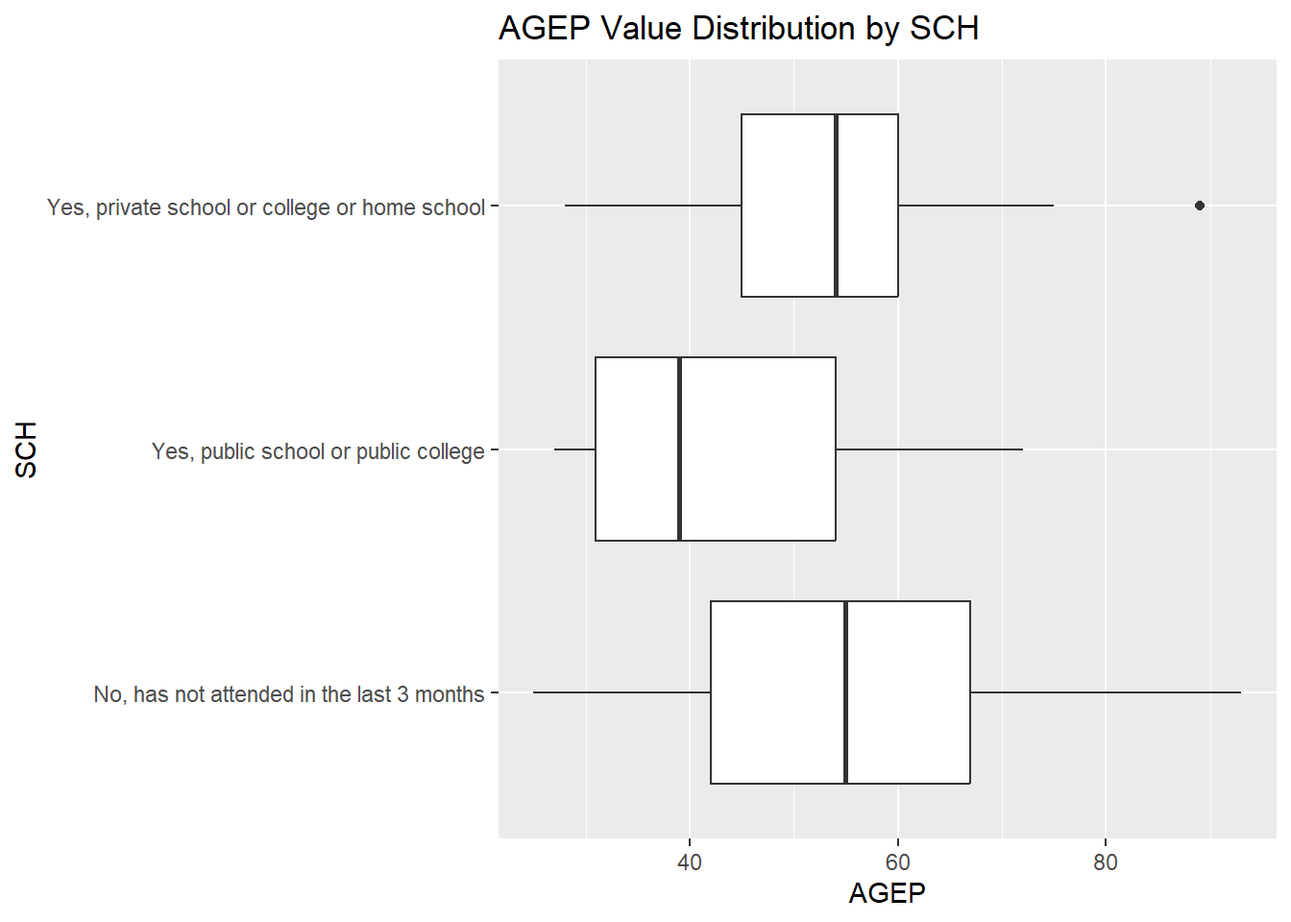
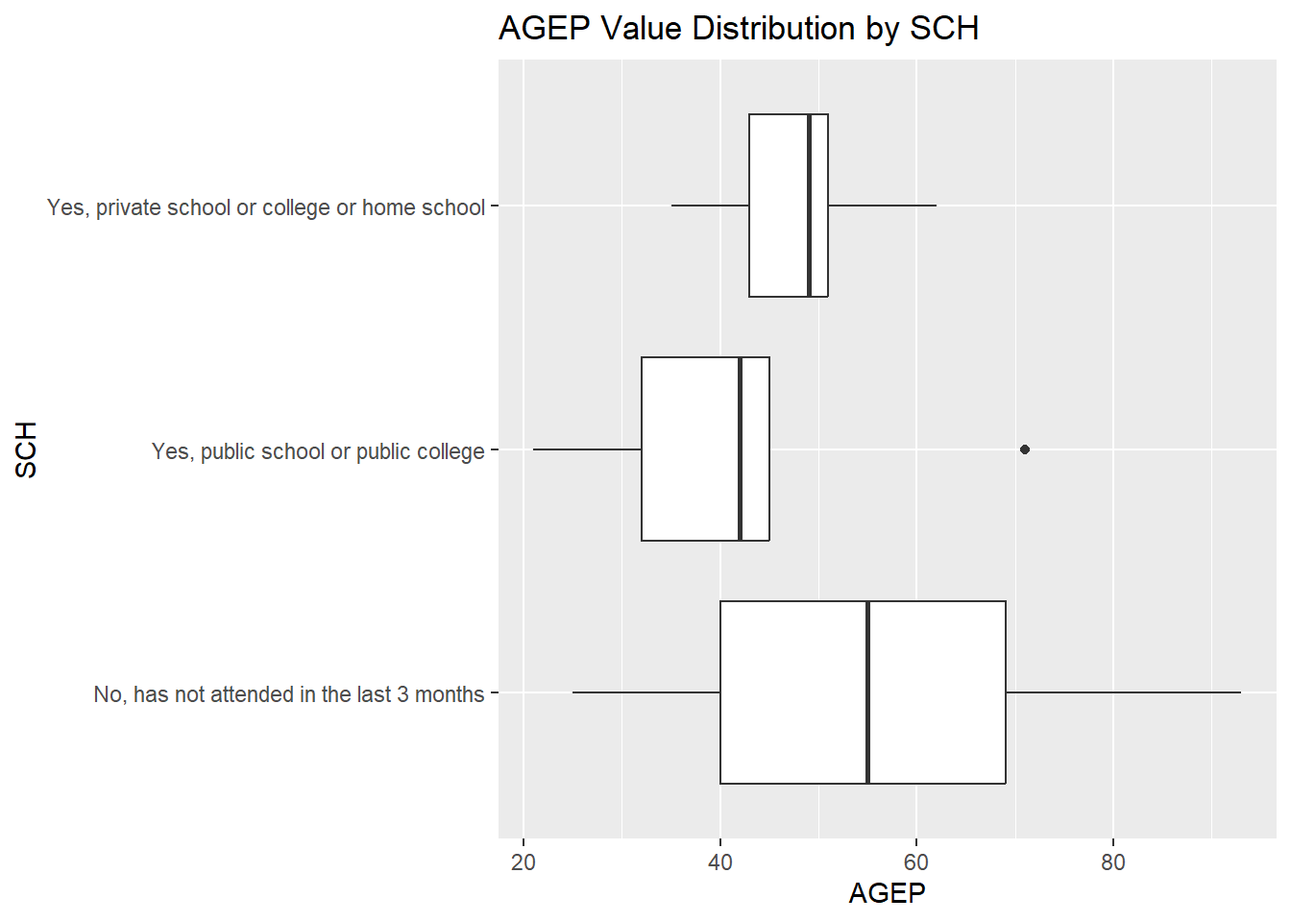
Final changes

diff --git a/docs/Group10_Project01_ST558_Site.html b/docs/Group10_Project01_ST558_Site.html
@@ -1172,88 +1172,90 @@ pre > code.sourceCode > span > a:first-child::before { text-decoration: underlin
 <span id="cb8-572"><a href="#cb8-572" aria-hidden="true" tabindex="-1"></a>                    <span class="st">"231"</span>)</span></code><button title="Copy to Clipboard" class="code-copy-button"><i class="bi"></i></button></pre></div>
 </div>
 </section>
-<section id="creating-a-list-of-jwap-jwap-map" class="level2">
-<h2 class="anchored" data-anchor-id="creating-a-list-of-jwap-jwap-map">Creating a list of JWAP, JWAP map</h2>
+<section id="get-mid-time-for-the-jwap-jwap-time-range" class="level2">
+<h2 class="anchored" data-anchor-id="get-mid-time-for-the-jwap-jwap-time-range">Get mid time for the JWAP, JWAP time range</h2>
 <div class="cell">
-<div class="sourceCode cell-code" id="cb9"><pre class="sourceCode r code-with-copy"><code class="sourceCode r"><span id="cb9-1"><a href="#cb9-1" aria-hidden="true" tabindex="-1"></a><span class="co">#time_lst &lt;- list(jwap = jwap_map, jwdp = jwdp_map)</span></span>
-<span id="cb9-2"><a href="#cb9-2" aria-hidden="true" tabindex="-1"></a>jwap_map <span class="ot">&lt;-</span> <span class="fu">sapply</span>(jwap_map, mid_time)</span>
-<span id="cb9-3"><a href="#cb9-3" aria-hidden="true" tabindex="-1"></a>jwdp_map <span class="ot">&lt;-</span> <span class="fu">sapply</span>(jwdp_map, mid_time)</span></code><button title="Copy to Clipboard" class="code-copy-button"><i class="bi"></i></button></pre></div>
+<div class="sourceCode cell-code" id="cb9"><pre class="sourceCode r code-with-copy"><code class="sourceCode r"><span id="cb9-1"><a href="#cb9-1" aria-hidden="true" tabindex="-1"></a>jwap_map <span class="ot">&lt;-</span> <span class="fu">sapply</span>(jwap_map, mid_time)</span>
+<span id="cb9-2"><a href="#cb9-2" aria-hidden="true" tabindex="-1"></a>jwdp_map <span class="ot">&lt;-</span> <span class="fu">sapply</span>(jwdp_map, mid_time)</span></code><button title="Copy to Clipboard" class="code-copy-button"><i class="bi"></i></button></pre></div>
 </div>
 </section>
 </section>
 <section id="function-to-query-pums-api" class="level1">
 <h1>Function to query PUMS API</h1>
 <div class="cell">
-<div class="sourceCode cell-code" id="cb10"><pre class="sourceCode r code-with-copy"><code class="sourceCode r"><span id="cb10-1"><a href="#cb10-1" aria-hidden="true" tabindex="-1"></a><span class="co">#num_vars: Numerical variable to be return </span></span>
-<span id="cb10-2"><a href="#cb10-2" aria-hidden="true" tabindex="-1"></a><span class="co"># cat_vars: categorical variable to be return</span></span>
-<span id="cb10-3"><a href="#cb10-3" aria-hidden="true" tabindex="-1"></a>get_data <span class="ot">&lt;-</span> <span class="cf">function</span>(<span class="at">year=</span><span class="dv">2022</span>, <span class="at">num_vars=</span> <span class="fu">c</span>(<span class="st">"PWGTP"</span>, <span class="st">"AGEP"</span>),</span>
-<span id="cb10-4"><a href="#cb10-4" aria-hidden="true" tabindex="-1"></a>                     <span class="at">cat_vars =</span> <span class="fu">c</span>(<span class="st">"SEX"</span>), <span class="at">geo =</span> <span class="st">"All"</span>, </span>
-<span id="cb10-5"><a href="#cb10-5" aria-hidden="true" tabindex="-1"></a>                     <span class="at">filter =</span> <span class="fu">list</span>(<span class="at">num_filter=</span><span class="st">""</span>, <span class="at">cat_filter=</span><span class="st">""</span>, <span class="at">geo_filter=</span><span class="st">"*"</span>)){</span>
-<span id="cb10-6"><a href="#cb10-6" aria-hidden="true" tabindex="-1"></a>  <span class="cf">if</span> (year <span class="sc">&lt;</span> <span class="dv">2010</span> <span class="sc">|</span> year <span class="sc">&gt;</span> <span class="dv">2022</span>) {</span>
-<span id="cb10-7"><a href="#cb10-7" aria-hidden="true" tabindex="-1"></a>    <span class="fu">stop</span> (<span class="st">"year needs to be 2010-2022"</span>)</span>
-<span id="cb10-8"><a href="#cb10-8" aria-hidden="true" tabindex="-1"></a>  }</span>
-<span id="cb10-9"><a href="#cb10-9" aria-hidden="true" tabindex="-1"></a>  <span class="cf">if</span>(<span class="sc">!</span><span class="fu">is.vector</span>(num_vars) <span class="sc">|</span> <span class="sc">!</span><span class="fu">is.vector</span>(cat_vars)) {</span>
-<span id="cb10-10"><a href="#cb10-10" aria-hidden="true" tabindex="-1"></a>    <span class="fu">stop</span>(<span class="st">"num_vars and cat_vars both need to be vectors"</span>)</span>
+<div class="sourceCode cell-code" id="cb10"><pre class="sourceCode r code-with-copy"><code class="sourceCode r"><span id="cb10-1"><a href="#cb10-1" aria-hidden="true" tabindex="-1"></a><span class="co"># Get data for a year from the PUMS API based on the variables given</span></span>
+<span id="cb10-2"><a href="#cb10-2" aria-hidden="true" tabindex="-1"></a><span class="co"># num_vars: Numerical variable to be return </span></span>
+<span id="cb10-3"><a href="#cb10-3" aria-hidden="true" tabindex="-1"></a><span class="co"># cat_vars: categorical variable to be return</span></span>
+<span id="cb10-4"><a href="#cb10-4" aria-hidden="true" tabindex="-1"></a><span class="co"># geo: geography</span></span>
+<span id="cb10-5"><a href="#cb10-5" aria-hidden="true" tabindex="-1"></a><span class="co"># filter: list of numeric var filter, categorical var filter, and geography filter</span></span>
+<span id="cb10-6"><a href="#cb10-6" aria-hidden="true" tabindex="-1"></a>get_data <span class="ot">&lt;-</span> <span class="cf">function</span>(<span class="at">year=</span><span class="dv">2022</span>, <span class="at">num_vars=</span> <span class="fu">c</span>(<span class="st">"PWGTP"</span>, <span class="st">"AGEP"</span>),</span>
+<span id="cb10-7"><a href="#cb10-7" aria-hidden="true" tabindex="-1"></a>                     <span class="at">cat_vars =</span> <span class="fu">c</span>(<span class="st">"SEX"</span>), <span class="at">geo =</span> <span class="st">"All"</span>, </span>
+<span id="cb10-8"><a href="#cb10-8" aria-hidden="true" tabindex="-1"></a>                     <span class="at">filter =</span> <span class="fu">list</span>(<span class="at">num_filter=</span><span class="st">""</span>, <span class="at">cat_filter=</span><span class="st">""</span>, <span class="at">geo_filter=</span><span class="st">"*"</span>)){</span>
+<span id="cb10-9"><a href="#cb10-9" aria-hidden="true" tabindex="-1"></a>  <span class="cf">if</span> (year <span class="sc">&lt;</span> <span class="dv">2010</span> <span class="sc">|</span> year <span class="sc">&gt;</span> <span class="dv">2022</span>) {</span>
+<span id="cb10-10"><a href="#cb10-10" aria-hidden="true" tabindex="-1"></a>    <span class="fu">stop</span> (<span class="st">"year needs to be 2010-2022"</span>)</span>
 <span id="cb10-11"><a href="#cb10-11" aria-hidden="true" tabindex="-1"></a>  }</span>
-<span id="cb10-12"><a href="#cb10-12" aria-hidden="true" tabindex="-1"></a>  allowed_num <span class="ot">&lt;-</span> <span class="fu">c</span>(<span class="st">"PWGTP"</span>, <span class="st">"AGEP"</span>, <span class="st">"GASP"</span>, <span class="st">"GRPIP"</span>,<span class="st">"JWAP"</span>, <span class="st">"JWDP"</span>, <span class="st">"JWMNP"</span>)</span>
-<span id="cb10-13"><a href="#cb10-13" aria-hidden="true" tabindex="-1"></a>  allowed_cat <span class="ot">&lt;-</span> <span class="fu">c</span>(<span class="st">"FER"</span>, <span class="st">"HHL"</span>, <span class="st">"HISPEED"</span>, <span class="st">"JWTRNS"</span>, <span class="st">"SCH"</span>, <span class="st">"SCHL"</span>, <span class="st">"SEX"</span>)</span>
-<span id="cb10-14"><a href="#cb10-14" aria-hidden="true" tabindex="-1"></a></span>
-<span id="cb10-15"><a href="#cb10-15" aria-hidden="true" tabindex="-1"></a>  diff <span class="ot">&lt;-</span> <span class="fu">setdiff</span>(num_vars, allowed_num)</span>
-<span id="cb10-16"><a href="#cb10-16" aria-hidden="true" tabindex="-1"></a>  <span class="cf">if</span>(<span class="fu">length</span>(diff) <span class="sc">&gt;</span> <span class="dv">0</span>){</span>
-<span id="cb10-17"><a href="#cb10-17" aria-hidden="true" tabindex="-1"></a>    <span class="fu">stop</span> (<span class="st">"unknown variable(s) given in num_vars: "</span>, diff)</span>
-<span id="cb10-18"><a href="#cb10-18" aria-hidden="true" tabindex="-1"></a>  }</span>
-<span id="cb10-19"><a href="#cb10-19" aria-hidden="true" tabindex="-1"></a>  diff <span class="ot">&lt;-</span> <span class="fu">setdiff</span>(cat_vars, allowed_cat)</span>
-<span id="cb10-20"><a href="#cb10-20" aria-hidden="true" tabindex="-1"></a>  <span class="cf">if</span> (<span class="fu">length</span>(diff) <span class="sc">&gt;</span> <span class="dv">0</span>){</span>
-<span id="cb10-21"><a href="#cb10-21" aria-hidden="true" tabindex="-1"></a>    <span class="fu">stop</span> (<span class="st">"unknown variable(s) given in cat_vars: "</span>, diff) </span>
-<span id="cb10-22"><a href="#cb10-22" aria-hidden="true" tabindex="-1"></a>  }</span>
-<span id="cb10-23"><a href="#cb10-23" aria-hidden="true" tabindex="-1"></a>  <span class="cf">if</span> (<span class="sc">!</span>(geo <span class="sc">%in%</span> <span class="fu">c</span>(<span class="st">"All"</span>, <span class="st">"Region"</span>, <span class="st">"Division"</span>, <span class="st">"State"</span>))){</span>
-<span id="cb10-24"><a href="#cb10-24" aria-hidden="true" tabindex="-1"></a>    <span class="fu">stop</span> (<span class="st">"unknown geo value given: "</span>, geo)</span>
+<span id="cb10-12"><a href="#cb10-12" aria-hidden="true" tabindex="-1"></a>  <span class="cf">if</span>(<span class="sc">!</span><span class="fu">is.vector</span>(num_vars) <span class="sc">|</span> <span class="sc">!</span><span class="fu">is.vector</span>(cat_vars)) {</span>
+<span id="cb10-13"><a href="#cb10-13" aria-hidden="true" tabindex="-1"></a>    <span class="fu">stop</span>(<span class="st">"num_vars and cat_vars both need to be vectors"</span>)</span>
+<span id="cb10-14"><a href="#cb10-14" aria-hidden="true" tabindex="-1"></a>  }</span>
+<span id="cb10-15"><a href="#cb10-15" aria-hidden="true" tabindex="-1"></a>  allowed_num <span class="ot">&lt;-</span> <span class="fu">c</span>(<span class="st">"PWGTP"</span>, <span class="st">"AGEP"</span>, <span class="st">"GASP"</span>, <span class="st">"GRPIP"</span>,<span class="st">"JWAP"</span>, <span class="st">"JWDP"</span>, <span class="st">"JWMNP"</span>)</span>
+<span id="cb10-16"><a href="#cb10-16" aria-hidden="true" tabindex="-1"></a>  allowed_cat <span class="ot">&lt;-</span> <span class="fu">c</span>(<span class="st">"FER"</span>, <span class="st">"HHL"</span>, <span class="st">"HISPEED"</span>, <span class="st">"JWTRNS"</span>, <span class="st">"SCH"</span>, <span class="st">"SCHL"</span>, <span class="st">"SEX"</span>)</span>
+<span id="cb10-17"><a href="#cb10-17" aria-hidden="true" tabindex="-1"></a></span>
+<span id="cb10-18"><a href="#cb10-18" aria-hidden="true" tabindex="-1"></a>  diff <span class="ot">&lt;-</span> <span class="fu">setdiff</span>(num_vars, allowed_num)</span>
+<span id="cb10-19"><a href="#cb10-19" aria-hidden="true" tabindex="-1"></a>  <span class="cf">if</span>(<span class="fu">length</span>(diff) <span class="sc">&gt;</span> <span class="dv">0</span>){</span>
+<span id="cb10-20"><a href="#cb10-20" aria-hidden="true" tabindex="-1"></a>    <span class="fu">stop</span> (<span class="st">"unknown variable(s) given in num_vars: "</span>, diff)</span>
+<span id="cb10-21"><a href="#cb10-21" aria-hidden="true" tabindex="-1"></a>  }</span>
+<span id="cb10-22"><a href="#cb10-22" aria-hidden="true" tabindex="-1"></a>  diff <span class="ot">&lt;-</span> <span class="fu">setdiff</span>(cat_vars, allowed_cat)</span>
+<span id="cb10-23"><a href="#cb10-23" aria-hidden="true" tabindex="-1"></a>  <span class="cf">if</span> (<span class="fu">length</span>(diff) <span class="sc">&gt;</span> <span class="dv">0</span>){</span>
+<span id="cb10-24"><a href="#cb10-24" aria-hidden="true" tabindex="-1"></a>    <span class="fu">stop</span> (<span class="st">"unknown variable(s) given in cat_vars: "</span>, diff) </span>
 <span id="cb10-25"><a href="#cb10-25" aria-hidden="true" tabindex="-1"></a>  }</span>
-<span id="cb10-26"><a href="#cb10-26" aria-hidden="true" tabindex="-1"></a>  <span class="co"># Add PWGTP if not present in num_vars</span></span>
-<span id="cb10-27"><a href="#cb10-27" aria-hidden="true" tabindex="-1"></a>  <span class="cf">if</span>(<span class="sc">!</span>( <span class="st">"PWGTP"</span> <span class="sc">%in%</span> num_vars)) {</span>
-<span id="cb10-28"><a href="#cb10-28" aria-hidden="true" tabindex="-1"></a>    num_vars <span class="ot">&lt;-</span> <span class="fu">c</span>(<span class="st">"PWGPT"</span>, num_vars)</span>
-<span id="cb10-29"><a href="#cb10-29" aria-hidden="true" tabindex="-1"></a>  }</span>
-<span id="cb10-30"><a href="#cb10-30" aria-hidden="true" tabindex="-1"></a>  get_str <span class="ot">&lt;-</span> <span class="st">""</span></span>
-<span id="cb10-31"><a href="#cb10-31" aria-hidden="true" tabindex="-1"></a>  <span class="cf">if</span> (geo <span class="sc">!=</span> <span class="st">"All"</span>){</span>
-<span id="cb10-32"><a href="#cb10-32" aria-hidden="true" tabindex="-1"></a>    geo_str <span class="ot">&lt;-</span> <span class="fu">paste0</span>(<span class="st">"&amp;for="</span>, geo, <span class="st">":"</span>, filter<span class="sc">$</span>geo_filter)</span>
-<span id="cb10-33"><a href="#cb10-33" aria-hidden="true" tabindex="-1"></a>  }</span>
-<span id="cb10-34"><a href="#cb10-34" aria-hidden="true" tabindex="-1"></a>  get_str <span class="ot">&lt;-</span> <span class="fu">paste0</span>(<span class="st">"pums?get="</span>,</span>
-<span id="cb10-35"><a href="#cb10-35" aria-hidden="true" tabindex="-1"></a>                   <span class="fu">paste</span>(num_vars, <span class="at">collapse =</span> <span class="st">","</span>),</span>
-<span id="cb10-36"><a href="#cb10-36" aria-hidden="true" tabindex="-1"></a>                   <span class="st">","</span>,</span>
-<span id="cb10-37"><a href="#cb10-37" aria-hidden="true" tabindex="-1"></a>                   <span class="fu">paste</span>(cat_vars, <span class="at">collapse =</span> <span class="st">","</span>),</span>
-<span id="cb10-38"><a href="#cb10-38" aria-hidden="true" tabindex="-1"></a>                   geo_str,</span>
-<span id="cb10-39"><a href="#cb10-39" aria-hidden="true" tabindex="-1"></a>                   <span class="fu">paste0</span>(<span class="st">"&amp;"</span>, filter<span class="sc">$</span>num_filter),</span>
-<span id="cb10-40"><a href="#cb10-40" aria-hidden="true" tabindex="-1"></a>                   <span class="fu">paste0</span>(<span class="st">"&amp;"</span>, filter<span class="sc">$</span>cat_filter)</span>
-<span id="cb10-41"><a href="#cb10-41" aria-hidden="true" tabindex="-1"></a>                   )</span>
-<span id="cb10-42"><a href="#cb10-42" aria-hidden="true" tabindex="-1"></a>  URL <span class="ot">&lt;-</span> <span class="fu">paste</span>(<span class="st">"https://api.census.gov/data"</span>, year,</span>
-<span id="cb10-43"><a href="#cb10-43" aria-hidden="true" tabindex="-1"></a>               <span class="st">"acs/acs1"</span>, get_str,</span>
-<span id="cb10-44"><a href="#cb10-44" aria-hidden="true" tabindex="-1"></a>               <span class="at">sep =</span> <span class="st">"/"</span>,</span>
-<span id="cb10-45"><a href="#cb10-45" aria-hidden="true" tabindex="-1"></a>               <span class="at">collapse=</span><span class="st">"/"</span>)</span>
-<span id="cb10-46"><a href="#cb10-46" aria-hidden="true" tabindex="-1"></a>  <span class="fu">print</span>(URL)</span>
-<span id="cb10-47"><a href="#cb10-47" aria-hidden="true" tabindex="-1"></a>  tbl <span class="ot">&lt;-</span> <span class="fu">get_url_data</span>(URL)</span>
-<span id="cb10-48"><a href="#cb10-48" aria-hidden="true" tabindex="-1"></a>  <span class="co">#https://api.census.gov/data/2022/acs/acs1/pums?get=SEX,PWGTP,MAR&amp;for=region:*&amp;SCHL=</span></span>
-<span id="cb10-49"><a href="#cb10-49" aria-hidden="true" tabindex="-1"></a>  <span class="co">#Adding factors for each categorical variables</span></span>
-<span id="cb10-50"><a href="#cb10-50" aria-hidden="true" tabindex="-1"></a>  <span class="cf">for</span>(ct <span class="cf">in</span> cat_vars) {</span>
-<span id="cb10-51"><a href="#cb10-51" aria-hidden="true" tabindex="-1"></a>    fac <span class="ot">&lt;-</span> <span class="cf">switch</span>(ct,</span>
-<span id="cb10-52"><a href="#cb10-52" aria-hidden="true" tabindex="-1"></a>           <span class="st">"SEX"</span> <span class="ot">=</span> sex_factor,</span>
-<span id="cb10-53"><a href="#cb10-53" aria-hidden="true" tabindex="-1"></a>           <span class="st">"FER"</span> <span class="ot">=</span> fer_factor,</span>
-<span id="cb10-54"><a href="#cb10-54" aria-hidden="true" tabindex="-1"></a>           <span class="st">"HHL"</span> <span class="ot">=</span> hhl_factor,</span>
-<span id="cb10-55"><a href="#cb10-55" aria-hidden="true" tabindex="-1"></a>           <span class="st">"HISPEED"</span><span class="ot">=</span> hispeed_factor,</span>
-<span id="cb10-56"><a href="#cb10-56" aria-hidden="true" tabindex="-1"></a>           <span class="st">"JWTRNS"</span> <span class="ot">=</span> jwtrns_factor,</span>
-<span id="cb10-57"><a href="#cb10-57" aria-hidden="true" tabindex="-1"></a>           <span class="st">"SCH"</span> <span class="ot">=</span> sch_factor,</span>
-<span id="cb10-58"><a href="#cb10-58" aria-hidden="true" tabindex="-1"></a>           <span class="st">"SCHL"</span> <span class="ot">=</span> schl_factor)</span>
-<span id="cb10-59"><a href="#cb10-59" aria-hidden="true" tabindex="-1"></a>    <span class="co"># For using column names from a variable need to use !! and !!sym() for use inside factor</span></span>
-<span id="cb10-60"><a href="#cb10-60" aria-hidden="true" tabindex="-1"></a>    tbl <span class="ot">&lt;-</span> tbl <span class="sc">|&gt;</span></span>
-<span id="cb10-61"><a href="#cb10-61" aria-hidden="true" tabindex="-1"></a>      <span class="fu">mutate</span>(<span class="sc">!!</span><span class="at">ct :=</span> <span class="fu">factor</span>(<span class="sc">!!</span><span class="fu">sym</span>(ct), <span class="at">levels =</span> fac<span class="sc">$</span>levels, <span class="at">labels =</span> fac<span class="sc">$</span>labels))</span>
-<span id="cb10-62"><a href="#cb10-62" aria-hidden="true" tabindex="-1"></a>  }</span>
-<span id="cb10-63"><a href="#cb10-63" aria-hidden="true" tabindex="-1"></a>  <span class="co">#Converting numerical variables' values to numbers and converting time rage vars to mid time</span></span>
-<span id="cb10-64"><a href="#cb10-64" aria-hidden="true" tabindex="-1"></a>  tbl <span class="ot">&lt;-</span> tbl <span class="sc">|&gt;</span></span>
-<span id="cb10-65"><a href="#cb10-65" aria-hidden="true" tabindex="-1"></a>        <span class="fu">mutate</span>(<span class="fu">across</span>(<span class="fu">setdiff</span>(num_vars, <span class="fu">c</span>(<span class="st">"JWAP"</span>, <span class="st">"JWDP"</span>)), as.numeric),</span>
-<span id="cb10-66"><a href="#cb10-66" aria-hidden="true" tabindex="-1"></a>               <span class="fu">across</span>(<span class="fu">starts_with</span>(<span class="st">"JW"</span>) <span class="sc">&amp;</span> <span class="fu">ends_with</span>(<span class="st">"P"</span>), </span>
-<span id="cb10-67"><a href="#cb10-67" aria-hidden="true" tabindex="-1"></a>                      <span class="sc">~</span><span class="fu">ifelse</span>(<span class="fu">cur_column</span>() <span class="sc">==</span> <span class="st">"JWAP"</span>, jwap_map[.], jwdp_map[.])</span>
-<span id="cb10-68"><a href="#cb10-68" aria-hidden="true" tabindex="-1"></a>                      ))</span>
-<span id="cb10-69"><a href="#cb10-69" aria-hidden="true" tabindex="-1"></a>  <span class="fu">return</span>(tbl)</span>
-<span id="cb10-70"><a href="#cb10-70" aria-hidden="true" tabindex="-1"></a>}</span></code><button title="Copy to Clipboard" class="code-copy-button"><i class="bi"></i></button></pre></div>
+<span id="cb10-26"><a href="#cb10-26" aria-hidden="true" tabindex="-1"></a>  <span class="cf">if</span> (<span class="sc">!</span>(geo <span class="sc">%in%</span> <span class="fu">c</span>(<span class="st">"All"</span>, <span class="st">"Region"</span>, <span class="st">"Division"</span>, <span class="st">"State"</span>))){</span>
+<span id="cb10-27"><a href="#cb10-27" aria-hidden="true" tabindex="-1"></a>    <span class="fu">stop</span> (<span class="st">"unknown geo value given: "</span>, geo)</span>
+<span id="cb10-28"><a href="#cb10-28" aria-hidden="true" tabindex="-1"></a>  }</span>
+<span id="cb10-29"><a href="#cb10-29" aria-hidden="true" tabindex="-1"></a>  <span class="co"># Add PWGTP if not present in num_vars</span></span>
+<span id="cb10-30"><a href="#cb10-30" aria-hidden="true" tabindex="-1"></a>  <span class="cf">if</span>(<span class="sc">!</span>( <span class="st">"PWGTP"</span> <span class="sc">%in%</span> num_vars)) {</span>
+<span id="cb10-31"><a href="#cb10-31" aria-hidden="true" tabindex="-1"></a>    num_vars <span class="ot">&lt;-</span> <span class="fu">c</span>(<span class="st">"PWGPT"</span>, num_vars)</span>
+<span id="cb10-32"><a href="#cb10-32" aria-hidden="true" tabindex="-1"></a>  }</span>
+<span id="cb10-33"><a href="#cb10-33" aria-hidden="true" tabindex="-1"></a>  get_str <span class="ot">&lt;-</span> <span class="st">""</span></span>
+<span id="cb10-34"><a href="#cb10-34" aria-hidden="true" tabindex="-1"></a>  <span class="cf">if</span> (geo <span class="sc">!=</span> <span class="st">"All"</span>){</span>
+<span id="cb10-35"><a href="#cb10-35" aria-hidden="true" tabindex="-1"></a>    geo_str <span class="ot">&lt;-</span> <span class="fu">paste0</span>(<span class="st">"&amp;for="</span>, geo, <span class="st">":"</span>, filter<span class="sc">$</span>geo_filter)</span>
+<span id="cb10-36"><a href="#cb10-36" aria-hidden="true" tabindex="-1"></a>  }</span>
+<span id="cb10-37"><a href="#cb10-37" aria-hidden="true" tabindex="-1"></a>  get_str <span class="ot">&lt;-</span> <span class="fu">paste0</span>(<span class="st">"pums?get="</span>,</span>
+<span id="cb10-38"><a href="#cb10-38" aria-hidden="true" tabindex="-1"></a>                   <span class="fu">paste</span>(num_vars, <span class="at">collapse =</span> <span class="st">","</span>),</span>
+<span id="cb10-39"><a href="#cb10-39" aria-hidden="true" tabindex="-1"></a>                   <span class="st">","</span>,</span>
+<span id="cb10-40"><a href="#cb10-40" aria-hidden="true" tabindex="-1"></a>                   <span class="fu">paste</span>(cat_vars, <span class="at">collapse =</span> <span class="st">","</span>),</span>
+<span id="cb10-41"><a href="#cb10-41" aria-hidden="true" tabindex="-1"></a>                   geo_str,</span>
+<span id="cb10-42"><a href="#cb10-42" aria-hidden="true" tabindex="-1"></a>                   <span class="fu">paste0</span>(<span class="st">"&amp;"</span>, filter<span class="sc">$</span>num_filter),</span>
+<span id="cb10-43"><a href="#cb10-43" aria-hidden="true" tabindex="-1"></a>                   <span class="fu">paste0</span>(<span class="st">"&amp;"</span>, filter<span class="sc">$</span>cat_filter)</span>
+<span id="cb10-44"><a href="#cb10-44" aria-hidden="true" tabindex="-1"></a>                   )</span>
+<span id="cb10-45"><a href="#cb10-45" aria-hidden="true" tabindex="-1"></a>  URL <span class="ot">&lt;-</span> <span class="fu">paste</span>(<span class="st">"https://api.census.gov/data"</span>, year,</span>
+<span id="cb10-46"><a href="#cb10-46" aria-hidden="true" tabindex="-1"></a>               <span class="st">"acs/acs1"</span>, get_str,</span>
+<span id="cb10-47"><a href="#cb10-47" aria-hidden="true" tabindex="-1"></a>               <span class="at">sep =</span> <span class="st">"/"</span>,</span>
+<span id="cb10-48"><a href="#cb10-48" aria-hidden="true" tabindex="-1"></a>               <span class="at">collapse=</span><span class="st">"/"</span>)</span>
+<span id="cb10-49"><a href="#cb10-49" aria-hidden="true" tabindex="-1"></a>  <span class="fu">print</span>(URL)</span>
+<span id="cb10-50"><a href="#cb10-50" aria-hidden="true" tabindex="-1"></a>  tbl <span class="ot">&lt;-</span> <span class="fu">get_url_data</span>(URL)</span>
+<span id="cb10-51"><a href="#cb10-51" aria-hidden="true" tabindex="-1"></a>  <span class="co">#https://api.census.gov/data/2022/acs/acs1/pums?get=SEX,PWGTP,MAR&amp;for=region:*&amp;SCHL=</span></span>
+<span id="cb10-52"><a href="#cb10-52" aria-hidden="true" tabindex="-1"></a>  <span class="co">#Adding factors for each categorical variables</span></span>
+<span id="cb10-53"><a href="#cb10-53" aria-hidden="true" tabindex="-1"></a>  <span class="cf">for</span>(ct <span class="cf">in</span> cat_vars) {</span>
+<span id="cb10-54"><a href="#cb10-54" aria-hidden="true" tabindex="-1"></a>    fac <span class="ot">&lt;-</span> <span class="cf">switch</span>(ct,</span>
+<span id="cb10-55"><a href="#cb10-55" aria-hidden="true" tabindex="-1"></a>           <span class="st">"SEX"</span> <span class="ot">=</span> sex_factor,</span>
+<span id="cb10-56"><a href="#cb10-56" aria-hidden="true" tabindex="-1"></a>           <span class="st">"FER"</span> <span class="ot">=</span> fer_factor,</span>
+<span id="cb10-57"><a href="#cb10-57" aria-hidden="true" tabindex="-1"></a>           <span class="st">"HHL"</span> <span class="ot">=</span> hhl_factor,</span>
+<span id="cb10-58"><a href="#cb10-58" aria-hidden="true" tabindex="-1"></a>           <span class="st">"HISPEED"</span><span class="ot">=</span> hispeed_factor,</span>
+<span id="cb10-59"><a href="#cb10-59" aria-hidden="true" tabindex="-1"></a>           <span class="st">"JWTRNS"</span> <span class="ot">=</span> jwtrns_factor,</span>
+<span id="cb10-60"><a href="#cb10-60" aria-hidden="true" tabindex="-1"></a>           <span class="st">"SCH"</span> <span class="ot">=</span> sch_factor,</span>
+<span id="cb10-61"><a href="#cb10-61" aria-hidden="true" tabindex="-1"></a>           <span class="st">"SCHL"</span> <span class="ot">=</span> schl_factor)</span>
+<span id="cb10-62"><a href="#cb10-62" aria-hidden="true" tabindex="-1"></a>    <span class="co"># For using column names from a variable need to use !! and !!sym() for use inside factor</span></span>
+<span id="cb10-63"><a href="#cb10-63" aria-hidden="true" tabindex="-1"></a>    tbl <span class="ot">&lt;-</span> tbl <span class="sc">|&gt;</span></span>
+<span id="cb10-64"><a href="#cb10-64" aria-hidden="true" tabindex="-1"></a>      <span class="fu">mutate</span>(<span class="sc">!!</span><span class="at">ct :=</span> <span class="fu">factor</span>(<span class="sc">!!</span><span class="fu">sym</span>(ct), <span class="at">levels =</span> fac<span class="sc">$</span>levels, <span class="at">labels =</span> fac<span class="sc">$</span>labels))</span>
+<span id="cb10-65"><a href="#cb10-65" aria-hidden="true" tabindex="-1"></a>  }</span>
+<span id="cb10-66"><a href="#cb10-66" aria-hidden="true" tabindex="-1"></a>  <span class="co">#Converting numerical variables' values to numbers and converting time rage vars to mid time</span></span>
+<span id="cb10-67"><a href="#cb10-67" aria-hidden="true" tabindex="-1"></a>  tbl <span class="ot">&lt;-</span> tbl <span class="sc">|&gt;</span></span>
+<span id="cb10-68"><a href="#cb10-68" aria-hidden="true" tabindex="-1"></a>        <span class="fu">mutate</span>(<span class="fu">across</span>(<span class="fu">setdiff</span>(num_vars, <span class="fu">c</span>(<span class="st">"JWAP"</span>, <span class="st">"JWDP"</span>)), as.numeric),</span>
+<span id="cb10-69"><a href="#cb10-69" aria-hidden="true" tabindex="-1"></a>               <span class="fu">across</span>(<span class="fu">starts_with</span>(<span class="st">"JW"</span>) <span class="sc">&amp;</span> <span class="fu">ends_with</span>(<span class="st">"P"</span>), </span>
+<span id="cb10-70"><a href="#cb10-70" aria-hidden="true" tabindex="-1"></a>                      <span class="sc">~</span><span class="fu">ifelse</span>(<span class="fu">cur_column</span>() <span class="sc">==</span> <span class="st">"JWAP"</span>, jwap_map[.], jwdp_map[.])</span>
+<span id="cb10-71"><a href="#cb10-71" aria-hidden="true" tabindex="-1"></a>                      ))</span>
+<span id="cb10-72"><a href="#cb10-72" aria-hidden="true" tabindex="-1"></a>  <span class="fu">return</span>(tbl)</span>
+<span id="cb10-73"><a href="#cb10-73" aria-hidden="true" tabindex="-1"></a>}</span></code><button title="Copy to Clipboard" class="code-copy-button"><i class="bi"></i></button></pre></div>
 </div>
 <section id="function-to-get-data-from-multiple-years-as-one-tibble" class="level2">
 <h2 class="anchored" data-anchor-id="function-to-get-data-from-multiple-years-as-one-tibble">Function to get data from multiple years as one tibble</h2>
@@ -1278,21 +1280,20 @@ pre > code.sourceCode > span > a:first-child::before { text-decoration: underlin
 <span id="cb11-18"><a href="#cb11-18" aria-hidden="true" tabindex="-1"></a>  }</span>
 <span id="cb11-19"><a href="#cb11-19" aria-hidden="true" tabindex="-1"></a>  <span class="fu">return</span>(combined_dt)</span>
 <span id="cb11-20"><a href="#cb11-20" aria-hidden="true" tabindex="-1"></a></span>
-<span id="cb11-21"><a href="#cb11-21" aria-hidden="true" tabindex="-1"></a>}</span>
-<span id="cb11-22"><a href="#cb11-22" aria-hidden="true" tabindex="-1"></a></span>
-<span id="cb11-23"><a href="#cb11-23" aria-hidden="true" tabindex="-1"></a><span class="co">#get_data_years(years=c(2021,2022), )</span></span></code><button title="Copy to Clipboard" class="code-copy-button"><i class="bi"></i></button></pre></div>
+<span id="cb11-21"><a href="#cb11-21" aria-hidden="true" tabindex="-1"></a>}</span></code><button title="Copy to Clipboard" class="code-copy-button"><i class="bi"></i></button></pre></div>
 </div>
 </section>
 <section id="getting-the-data" class="level2">
 <h2 class="anchored" data-anchor-id="getting-the-data">Getting the data</h2>
 <div class="cell">
-<div class="sourceCode cell-code" id="cb12"><pre class="sourceCode r code-with-copy"><code class="sourceCode r"><span id="cb12-1"><a href="#cb12-1" aria-hidden="true" tabindex="-1"></a>dt_tbl <span class="ot">&lt;-</span> <span class="fu">get_data_years</span>(<span class="at">years=</span><span class="fu">c</span>(<span class="dv">2021</span>, <span class="dv">2022</span>), </span>
-<span id="cb12-2"><a href="#cb12-2" aria-hidden="true" tabindex="-1"></a>                         <span class="at">num_vars =</span> <span class="fu">c</span>(<span class="st">"PWGTP"</span>, <span class="st">"AGEP"</span>, <span class="st">"GASP"</span>, <span class="st">"GRPIP"</span>,<span class="st">"JWMNP"</span>),</span>
-<span id="cb12-3"><a href="#cb12-3" aria-hidden="true" tabindex="-1"></a>                         <span class="at">cat_vars =</span> <span class="fu">c</span>(<span class="st">"FER"</span>, <span class="st">"HHL"</span>, <span class="st">"HISPEED"</span>,<span class="st">"SCH"</span>, <span class="st">"SCHL"</span>, <span class="st">"SEX"</span>),</span>
-<span id="cb12-4"><a href="#cb12-4" aria-hidden="true" tabindex="-1"></a>                         <span class="at">geo =</span> <span class="st">"State"</span>,</span>
-<span id="cb12-5"><a href="#cb12-5" aria-hidden="true" tabindex="-1"></a>                         <span class="at">filter =</span> <span class="fu">list</span>(<span class="at">cat_filter=</span><span class="st">"SCHL=24"</span>, <span class="at">num_filter=</span><span class="st">""</span>, <span class="at">geo_filter =</span> <span class="st">"1"</span>))</span></code><button title="Copy to Clipboard" class="code-copy-button"><i class="bi"></i></button></pre></div>
+<div class="sourceCode cell-code" id="cb12"><pre class="sourceCode r code-with-copy"><code class="sourceCode r"><span id="cb12-1"><a href="#cb12-1" aria-hidden="true" tabindex="-1"></a><span class="co"># Get data for years 2021, 2022 as one tibble</span></span>
+<span id="cb12-2"><a href="#cb12-2" aria-hidden="true" tabindex="-1"></a>dt_tbl <span class="ot">&lt;-</span> <span class="fu">get_data_years</span>(<span class="at">years=</span><span class="fu">c</span>(<span class="dv">2021</span>, <span class="dv">2022</span>), </span>
+<span id="cb12-3"><a href="#cb12-3" aria-hidden="true" tabindex="-1"></a>                         <span class="at">num_vars =</span> <span class="fu">c</span>(<span class="st">"PWGTP"</span>, <span class="st">"AGEP"</span>, <span class="st">"GASP"</span>, <span class="st">"GRPIP"</span>,<span class="st">"JWMNP"</span>),</span>
+<span id="cb12-4"><a href="#cb12-4" aria-hidden="true" tabindex="-1"></a>                         <span class="at">cat_vars =</span> <span class="fu">c</span>(<span class="st">"FER"</span>, <span class="st">"HHL"</span>, <span class="st">"HISPEED"</span>,<span class="st">"SCH"</span>, <span class="st">"SCHL"</span>, <span class="st">"SEX"</span>),</span>
+<span id="cb12-5"><a href="#cb12-5" aria-hidden="true" tabindex="-1"></a>                         <span class="at">geo =</span> <span class="st">"State"</span>,</span>
+<span id="cb12-6"><a href="#cb12-6" aria-hidden="true" tabindex="-1"></a>                         <span class="at">filter =</span> <span class="fu">list</span>(<span class="at">cat_filter=</span><span class="st">"SCHL=24"</span>, <span class="at">num_filter=</span><span class="st">""</span>, <span class="at">geo_filter =</span> <span class="st">"10"</span>))</span></code><button title="Copy to Clipboard" class="code-copy-button"><i class="bi"></i></button></pre></div>
 <div class="cell-output cell-output-stdout">
-<pre><code>[1] "https://api.census.gov/data/2021/acs/acs1/pums?get=PWGTP,AGEP,GASP,GRPIP,JWMNP,FER,HHL,HISPEED,SCH,SCHL,SEX&amp;for=State:1&amp;&amp;SCHL=24"</code></pre>
+<pre><code>[1] "https://api.census.gov/data/2021/acs/acs1/pums?get=PWGTP,AGEP,GASP,GRPIP,JWMNP,FER,HHL,HISPEED,SCH,SCHL,SEX&amp;for=State:10&amp;&amp;SCHL=24"</code></pre>
 </div>
 <div class="cell-output cell-output-stderr">
 <pre><code>Warning: The `x` argument of `as_tibble.matrix()` must have unique column names if
@@ -1300,24 +1301,24 @@ pre > code.sourceCode > span > a:first-child::before { text-decoration: underlin
 ℹ Using compatibility `.name_repair`.</code></pre>
 </div>
 <div class="cell-output cell-output-stdout">
-<pre><code>[1] "https://api.census.gov/data/2022/acs/acs1/pums?get=PWGTP,AGEP,GASP,GRPIP,JWMNP,FER,HHL,HISPEED,SCH,SCHL,SEX&amp;for=State:1&amp;&amp;SCHL=24"</code></pre>
+<pre><code>[1] "https://api.census.gov/data/2022/acs/acs1/pums?get=PWGTP,AGEP,GASP,GRPIP,JWMNP,FER,HHL,HISPEED,SCH,SCHL,SEX&amp;for=State:10&amp;&amp;SCHL=24"</code></pre>
 </div>
 <div class="sourceCode cell-code" id="cb16"><pre class="sourceCode r code-with-copy"><code class="sourceCode r"><span id="cb16-1"><a href="#cb16-1" aria-hidden="true" tabindex="-1"></a>dt_tbl</span></code><button title="Copy to Clipboard" class="code-copy-button"><i class="bi"></i></button></pre></div>
 <div class="cell-output cell-output-stdout">
-<pre><code># A tibble: 948 × 14
-   PWGTP  AGEP  GASP GRPIP JWMNP     FER   HHL   HISPEED SCH   SCHL  SEX   V12  
-   &lt;dbl&gt; &lt;dbl&gt; &lt;dbl&gt; &lt;dbl&gt; &lt;chr&gt;     &lt;fct&gt; &lt;fct&gt; &lt;fct&gt;   &lt;fct&gt; &lt;fct&gt; &lt;fct&gt; &lt;chr&gt;
- 1   100    53   120     0 13H 44M … N/A   Engl… Yes     No, … Doct… Fema… 24   
- 2   315    51     3     0 13H 44M … N/A   Engl… No      No, … Doct… Male  24   
- 3    16    34    30     0 13H 44M … N/A   Engl… Yes     Yes,… Doct… Male  24   
- 4   196    46    50     0 13H 44M … No    Engl… Yes     No, … Doct… Fema… 24   
- 5    48    51    60     0 13H 44M … N/A   Engl… Yes     No, … Doct… Fema… 24   
- 6   493    34     3     0 13H 44M … No    Engl… Yes     No, … Doct… Fema… 24   
- 7   131    41    30     0 13H 44M … No    Engl… Yes     No, … Doct… Fema… 24   
- 8    92    44   150     0 13H 44M … N/A   Engl… Yes     No, … Doct… Male  24   
- 9    48    58    10     0 13H 44M … N/A   Engl… Yes     No, … Doct… Male  24   
-10    55    46   100    21 13H 44M … N/A   Engl… Yes     No, … Doct… Male  24   
-# ℹ 938 more rows
+<pre><code># A tibble: 295 × 14
+   PWGTP  AGEP  GASP GRPIP JWMNP    FER   HHL    HISPEED SCH   SCHL  SEX   V12  
+   &lt;dbl&gt; &lt;dbl&gt; &lt;dbl&gt; &lt;dbl&gt; &lt;chr&gt;    &lt;fct&gt; &lt;fct&gt;  &lt;fct&gt;   &lt;fct&gt; &lt;fct&gt; &lt;fct&gt; &lt;chr&gt;
+ 1    34    67     3    21 5H 2M 0S N/A   Engli… No      No, … Doct… Male  24   
+ 2    74    30   200     0 5H 2M 0S No    Other… Yes     No, … Doct… Fema… 24   
+ 3    70    74     3     0 5H 2M 0S N/A   Engli… Yes     No, … Doct… Male  24   
+ 4    57    57   410     0 5H 2M 0S N/A   Asian… Yes     No, … Doct… Male  24   
+ 5    99    74    60     0 5H 2M 0S N/A   Engli… Yes     No, … Doct… Male  24   
+ 6    61    62     3     0 5H 2M 0S N/A   Engli… Yes     No, … Doct… Fema… 24   
+ 7   103    28    20    18 5H 2M 0S No    Spani… No      No, … Doct… Fema… 24   
+ 8    96    62     3    21 5H 2M 0S N/A   Engli… Yes     Yes,… Doct… Fema… 24   
+ 9    59    65     3     0 5H 2M 0S N/A   Engli… Yes     No, … Doct… Fema… 24   
+10    21    76    80     0 5H 2M 0S N/A   Engli… Yes     No, … Doct… Male  24   
+# ℹ 285 more rows
 # ℹ 2 more variables: state &lt;chr&gt;, year &lt;dbl&gt;</code></pre>
 </div>
 </div>
@@ -1412,48 +1413,47 @@ pre > code.sourceCode > span > a:first-child::before { text-decoration: underlin
 <pre><code>[1] "Numeric Variable Summaries"
 [[1]]
  AGEP Mean  GASP Mean GRPIP Mean JWMNP Mean 
- 54.693853  47.599511   3.287145         NA 
+ 53.743707  52.220408   5.592261         NA 
 
 [[2]]
  AGEP StdDev  GASP StdDev GRPIP StdDev JWMNP StdDev 
-    57.89510    115.50904     12.34938           NA 
+    59.52826     91.16148     19.96361           NA 
 
 # A tibble: 3 × 2
   FER   count
   &lt;fct&gt; &lt;dbl&gt;
-1 N/A   66979
-2 Yes     591
-3 No    19104
-# A tibble: 6 × 2
+1 N/A   20718
+2 Yes      80
+3 No     5898
+# A tibble: 5 × 2
   HHL                                count
   &lt;fct&gt;                              &lt;dbl&gt;
-1 N/A (GQ/vacant)                      214
-2 English Only                       71437
-3 Spanish                             3195
-4 Other Indo-European languages       4676
-5 Asian and Pacific Island languages  5344
-6 Other Language                      1808
+1 English Only                       19164
+2 Spanish                              560
+3 Other Indo-European languages       1738
+4 Asian and Pacific Island languages  3506
+5 Other Language                      1728
 # A tibble: 3 × 2
   HISPEED                                        count
   &lt;fct&gt;                                          &lt;dbl&gt;
-1 N/A (GQ/vacant/no paid access to the internet)  3317
-2 Yes                                            73876
-3 No                                              9481
+1 N/A (GQ/vacant/no paid access to the internet)   832
+2 Yes                                            24209
+3 No                                              1655
 # A tibble: 3 × 2
   SCH                                           count
   &lt;fct&gt;                                         &lt;dbl&gt;
-1 No, has not attended in the last 3 months     82130
-2 Yes, public school or public college           3160
-3 Yes, private school or college or home school  1384
+1 No, has not attended in the last 3 months     22998
+2 Yes, public school or public college           2015
+3 Yes, private school or college or home school  1683
 # A tibble: 1 × 2
   SCHL             count
   &lt;fct&gt;            &lt;dbl&gt;
-1 Doctorate degree 86674
+1 Doctorate degree 26696
 # A tibble: 2 × 2
   SEX    count
   &lt;fct&gt;  &lt;dbl&gt;
-1 Male   49899
-2 Female 36775</code></pre>
+1 Male   16404
+2 Female 10292</code></pre>
 </div>
 </div>
 <div class="cell">
@@ -1463,18 +1463,18 @@ pre > code.sourceCode > span > a:first-child::before { text-decoration: underlin
 <pre><code>[1] "Numeric Variable Summaries"
 [[1]]
  AGEP Mean GRPIP Mean 
- 54.693853   3.287145 
+ 53.743707   5.592261 
 
 [[2]]
  AGEP StdDev GRPIP StdDev 
-    57.89510     12.34938 
+    59.52826     19.96361 
 
 # A tibble: 3 × 2
   SCH                                           count
   &lt;fct&gt;                                         &lt;dbl&gt;
-1 No, has not attended in the last 3 months     82130
-2 Yes, public school or public college           3160
-3 Yes, private school or college or home school  1384</code></pre>
+1 No, has not attended in the last 3 months     22998
+2 Yes, public school or public college           2015
+3 Yes, private school or college or home school  1683</code></pre>
 </div>
 </div>
 </section>
